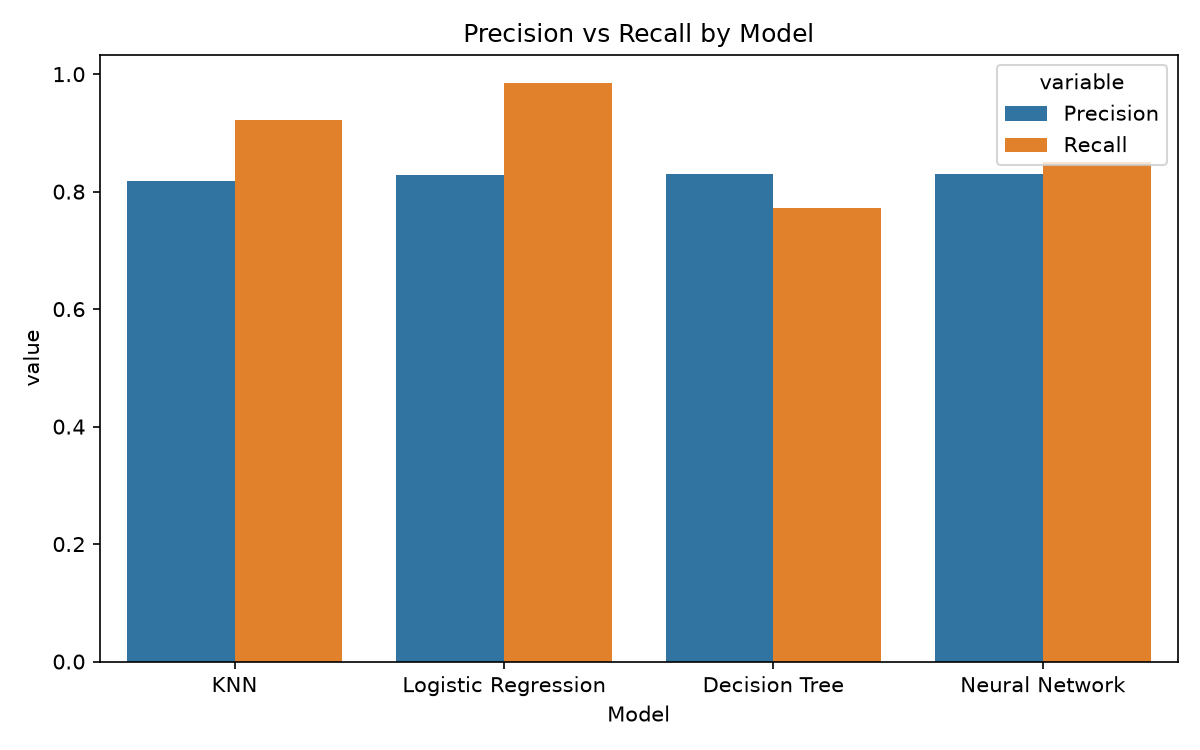
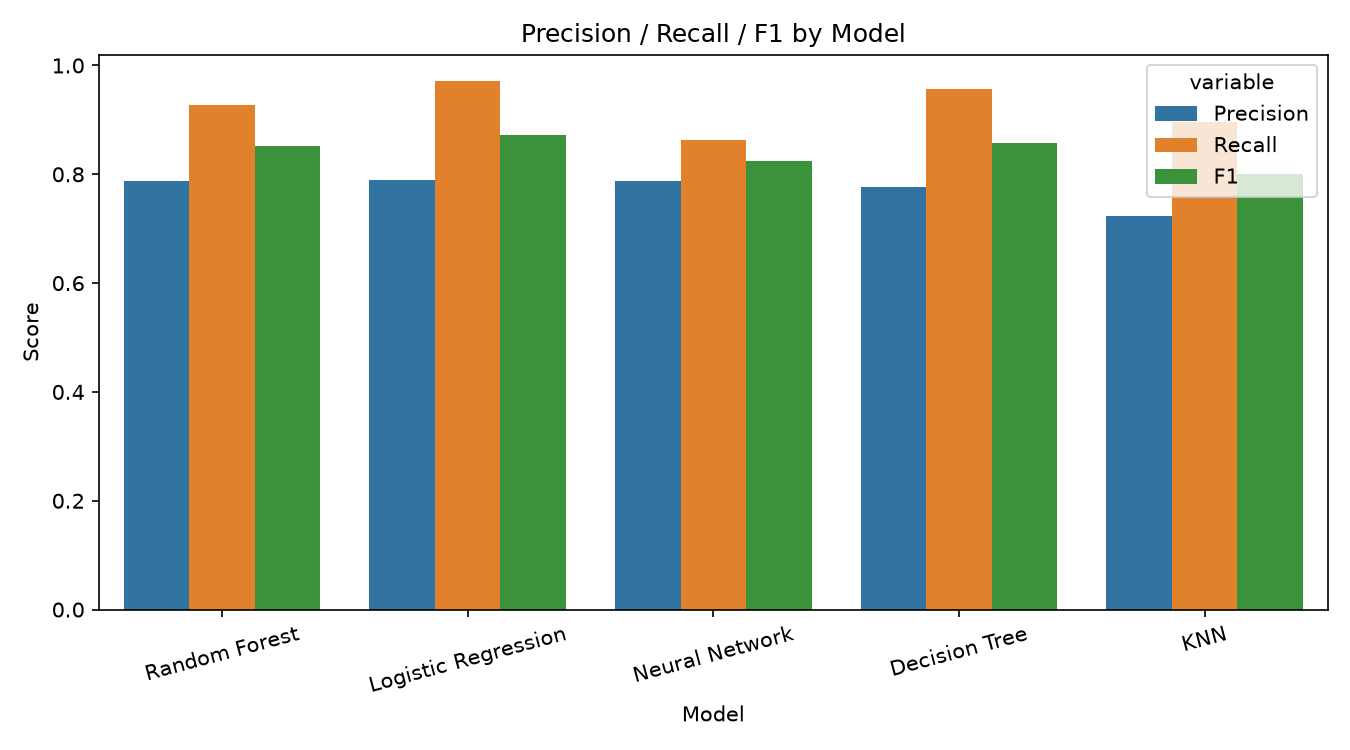
Improve model correctness and evaluation methodology
- Drop Loan_ID so the unique identifier is no longer used as a feature
- Replace the all-object LabelEncoder path (which silently rank-encoded
  numeric columns) with a ColumnTransformer: median-impute + scale numerics,
  most-frequent-impute + One-Hot encode categoricals
- Fit all preprocessing inside a Pipeline to avoid train/test leakage
- Evaluate with 5-fold Stratified Cross-Validation (out-of-fold predictions)
  instead of a single split, and add F1 + a majority-class baseline
- Add a Random Forest classifier (now five models, ranked by ROC AUC)
- Update README methodology/results and the architecture diagram to match

diff --git a/main.py b/main.py
@@ -1,16 +1,20 @@
 
 # importinggg
 import os
+import warnings
+
 import pandas as pd
 import numpy as np
 import seaborn as sns
 import matplotlib.pyplot as plt
 
-from sklearn.model_selection import train_test_split
-from sklearn.preprocessing import LabelEncoder, StandardScaler, MinMaxScaler
+from sklearn.model_selection import StratifiedKFold, cross_val_predict
+from sklearn.pipeline import Pipeline
+from sklearn.compose import ColumnTransformer
+from sklearn.preprocessing import StandardScaler, MinMaxScaler, OneHotEncoder
 from sklearn.impute import SimpleImputer
 from sklearn.metrics import (
-    accuracy_score, precision_score, recall_score,
+    accuracy_score, precision_score, recall_score, f1_score,
     confusion_matrix, roc_auc_score, roc_curve
 )
 
@@ -18,8 +22,9 @@ from sklearn.neighbors import KNeighborsClassifier
 from sklearn.linear_model import LogisticRegression
 from sklearn.tree import DecisionTreeClassifier
 from sklearn.neural_network import MLPClassifier
+from sklearn.ensemble import RandomForestClassifier
 
-
+warnings.filterwarnings("ignore")
 
 # Create a folder to save all generated figures
 FIGURES_DIR = "figures"
@@ -28,6 +33,11 @@ os.makedirs(FIGURES_DIR, exist_ok=True)
 
 # Step 1: Loading Dataset
 df = pd.read_csv("Loan Approval Dataset.csv")
+
+# Loan_ID is just a unique identifier (LP001002, ...), not a real feature,
+# so we drop it to keep it out of the models.
+df = df.drop(columns=["Loan_ID"])
+
 # plotting for checkk
 plt.figure(figsize=(6, 4))
 sns.countplot(x="loan_status", data=df, order=["N", "Y"])
@@ -40,127 +50,139 @@ plt.savefig(os.path.join(FIGURES_DIR, "01_class_distribution.png"), dpi=150)
 plt.show()
 
 
-# Step 2: Handling Missing Values
-if df.isnull().values.any():
-    imputer = SimpleImputer(strategy="most_frequent")
-    df_imputed = pd.DataFrame(imputer.fit_transform(df), columns=df.columns)
-else:
-    df_imputed=df
+# Step 2: Features / Target
+# Target: 1 = Approved (Y), 0 = Rejected (N)
+y = (df["loan_status"] == "Y").astype(int)
+X = df.drop(columns=["loan_status"])
+
+# Split columns by type so each gets the right preprocessing
+numeric_features = X.select_dtypes(include=["number"]).columns.tolist()
+categorical_features = X.select_dtypes(exclude=["number"]).columns.tolist()
 
 
-# Step 3: Categorical Variables Encoding
-label_encoders = {}
-for column in df_imputed.select_dtypes(include=['object']).columns:
-    le = LabelEncoder()
-    df_imputed[column] = le.fit_transform(df_imputed[column])
-    label_encoders[column] = le
-
-
-
-# Step 4: Plotting Correlation Heatmap
+# Step 3: Correlation Heatmap
+# For the heatmap we need everything numeric, so we encode categoricals just
+# for visualisation (this encoded frame is NOT used for training).
+df_encoded = df.copy()
+for col in categorical_features + ["loan_status"]:
+    df_encoded[col] = df_encoded[col].astype("category").cat.codes
 plt.figure(figsize=(12, 8))
-sns.heatmap(df_imputed.corr(), annot=True, cmap='coolwarm')
-plt.title('Feature Correlation Heatmap')
+sns.heatmap(df_encoded.corr(), annot=True, cmap="coolwarm")
+plt.title("Feature Correlation Heatmap")
 plt.tight_layout()
 plt.savefig(os.path.join(FIGURES_DIR, "02_correlation_heatmap.png"), dpi=150)
 plt.show()
 
 
+# Step 4: Preprocessing definition
+# - Numeric  : impute missing with the MEDIAN, then scale.
+# - Category : impute missing with the MOST FREQUENT value, then One-Hot encode.
+# One-Hot avoids the false "ordering" that LabelEncoder imposes on categories.
+def build_preprocessor(numeric_scaler):
+    return ColumnTransformer([
+        ("num", Pipeline([
+            ("impute", SimpleImputer(strategy="median")),
+            ("scale", numeric_scaler),
+        ]), numeric_features),
+        ("cat", Pipeline([
+            ("impute", SimpleImputer(strategy="most_frequent")),
+            ("onehot", OneHotEncoder(handle_unknown="ignore")),
+        ]), categorical_features),
+    ])
 
-# Step 5: Splitting Train-Test Split by 70/30 ratio
-X = df_imputed.drop("loan_status", axis=1)
-y = df_imputed["loan_status"]
-X_train_raw, X_test_raw, y_train, y_test = train_test_split(
-    X, y, test_size=0.3, stratify=y, random_state=42
-)
 
-
-
-# Step 6: Define Models
-
+# Step 5: Define Models
 models = {
     "KNN": KNeighborsClassifier(),
-    "Logistic Regression": LogisticRegression(),
-    "Decision Tree": DecisionTreeClassifier(),
-    "Neural Network": MLPClassifier(max_iter=1000)
+    "Logistic Regression": LogisticRegression(max_iter=1000),
+    "Decision Tree": DecisionTreeClassifier(max_depth=5, random_state=42),
+    "Neural Network": MLPClassifier(max_iter=1000, random_state=42),
+    "Random Forest": RandomForestClassifier(n_estimators=300, random_state=42),
 }
 
 
-
-# Step 7: Apply Scaling and Train Models
-
+# Step 6: Train & Evaluate with 5-fold Cross-Validation
+# Instead of one lucky train/test split, we use out-of-fold predictions so that
+# every row is predicted by a model that never saw it during training. This
+# gives far more stable, honest estimates on a small (614-row) dataset.
+cv = StratifiedKFold(n_splits=5, shuffle=True, random_state=42)
 results = {}
 
 for name, model in models.items():
-    if name == "KNN":
-        scaler = MinMaxScaler()
-    else:
-        scaler = StandardScaler()
+    # KNN is distance-based -> MinMax; the rest -> StandardScaler.
+    scaler = MinMaxScaler() if name == "KNN" else StandardScaler()
+    pipe = Pipeline([
+        ("preprocess", build_preprocessor(scaler)),
+        ("model", model),
+    ])
 
-    X_train = scaler.fit_transform(X_train_raw)
-    X_test = scaler.transform(X_test_raw)
+    # Out-of-fold probabilities, then threshold at 0.5 for the class prediction.
+    y_prob = cross_val_predict(pipe, X, y, cv=cv, method="predict_proba")[:, 1]
+    y_pred = (y_prob >= 0.5).astype(int)
 
-
-    model.fit(X_train, y_train)
-    y_pred = model.predict(X_test)
-
-
-    if hasattr(model, "predict_proba"):
-          y_prob = model.predict_proba(X_test)[:, 1]
-    else:
-         y_prob= y_pred
-
+    fpr, tpr, _ = roc_curve(y, y_prob)
     results[name] = {
-        "model": model,
-        "accuracy": accuracy_score(y_test, y_pred),
-        "precision": precision_score(y_test, y_pred),
-        "recall": recall_score(y_test, y_pred),
-        "confusion_matrix": confusion_matrix(y_test, y_pred),
-        "roc_auc": roc_auc_score(y_test, y_prob),
-        "fpr": roc_curve(y_test, y_prob)[0],
-        "tpr": roc_curve(y_test, y_prob)[1]
+        "accuracy": accuracy_score(y, y_pred),
+        "precision": precision_score(y, y_pred),
+        "recall": recall_score(y, y_pred),
+        "f1": f1_score(y, y_pred),
+        "roc_auc": roc_auc_score(y, y_prob),
+        "confusion_matrix": confusion_matrix(y, y_pred),
+        "fpr": fpr,
+        "tpr": tpr,
     }
 
 
-# Step 8: Summary Table
+# Step 7: Summary Table
 summary_df = pd.DataFrame([
     {
         "Model": name,
         "Accuracy": res["accuracy"],
         "Precision": res["precision"],
         "Recall": res["recall"],
-        "ROC AUC": res["roc_auc"]
+        "F1": res["f1"],
+        "ROC AUC": res["roc_auc"],
     }
     for name, res in results.items()
-])
-print("\n                                   Model Evaluation Summary")
-print(summary_df)
+]).sort_values("ROC AUC", ascending=False).reset_index(drop=True)
+
+baseline = max(y.mean(), 1 - y.mean())
+print("\n                          Model Evaluation Summary (5-fold CV)")
+print(summary_df.to_string(index=False))
+print(f"\nBaseline accuracy (always predict the majority class): {baseline:.3f}")
 
 
-
-# Step 9: Accuracy Bar-Chart Representation
+# Step 8: Accuracy Bar-Chart Representation
 plt.figure(figsize=(8, 5))
 sns.barplot(x="Model", y="Accuracy", data=summary_df)
 plt.title("Model Accuracy Comparison")
+plt.axhline(baseline, color="red", linestyle="--", label=f"Baseline ({baseline:.2f})")
+plt.legend()
+plt.xticks(rotation=15)
 plt.tight_layout()
 plt.savefig(os.path.join(FIGURES_DIR, "03_model_accuracy.png"), dpi=150)
 plt.show()
 
 
-
-# Step 10: Precision & Recall Bar-Chart Representation
-summary_melted = pd.melt(summary_df, id_vars="Model", value_vars=["Precision", "Recall"])
-plt.figure(figsize=(8, 5))
+# Step 9: Precision / Recall / F1 Bar-Chart Representation
+summary_melted = pd.melt(summary_df, id_vars="Model",
+                         value_vars=["Precision", "Recall", "F1"])
+plt.figure(figsize=(9, 5))
 sns.barplot(x="Model", y="value", hue="variable", data=summary_melted)
-plt.title("Precision vs Recall by Model")
+plt.title("Precision / Recall / F1 by Model")
+plt.ylabel("Score")
+plt.xticks(rotation=15)
 plt.tight_layout()
 plt.savefig(os.path.join(FIGURES_DIR, "04_precision_recall.png"), dpi=150)
 plt.show()
 
-# Step 11: Confusion Matrices Diagram
+
+# Step 10: Confusion Matrices Diagram
 for name, res in results.items():
     plt.figure(figsize=(5, 4))
-    sns.heatmap(res["confusion_matrix"], annot=True, fmt="d", cmap="Blues")
+    sns.heatmap(res["confusion_matrix"], annot=True, fmt="d", cmap="Blues",
+                xticklabels=["Rejected", "Approved"],
+                yticklabels=["Rejected", "Approved"])
     plt.title(f"Confusion Matrix - {name}")
     plt.xlabel("Predicted")
     plt.ylabel("Actual")
@@ -170,12 +192,11 @@ for name, res in results.items():
     plt.show()
 
 
-
-# Step 12: ROC Curve Comparison Graph
+# Step 11: ROC Curve Comparison Graph
 plt.figure(figsize=(10, 8))
 for name, res in results.items():
     plt.plot(res["fpr"], res["tpr"], label=f"{name} (AUC = {res['roc_auc']:.2f})")
-plt.plot([0, 1], [0, 1], 'k--')
+plt.plot([0, 1], [0, 1], "k--")
 plt.title("ROC Curve Comparison")
 plt.xlabel("False Positive Rate")
 plt.ylabel("True Positive Rate")

diff --git a/README.md b/README.md
@@ -29,15 +29,17 @@ This project is a Machine Learning pipeline designed to automate the loan eligib
 The system implements multiple classification algorithms to determine the most accurate model, performing comprehensive data preprocessing, feature scaling, and visualization of performance metrics.
 
 ## 📊 Features
-* **Automated Preprocessing:** Handles missing values and encodes categorical variables.
+* **Leak-Free Preprocessing:** A scikit-learn `Pipeline` + `ColumnTransformer` imputes missing values (median for numeric, most-frequent for categorical) and **One-Hot encodes** categories — all fitted inside cross-validation so no information leaks from test to train.
 * **Exploratory Data Analysis (EDA):** Visualizes class distribution and feature correlations.
-* **Multi-Model Comparison:** Trains and evaluates four distinct algorithms:
+* **Multi-Model Comparison:** Trains and evaluates five distinct algorithms:
     * K-Nearest Neighbors (KNN)
     * Logistic Regression
     * Decision Tree Classifier
     * Neural Network (MLPClassifier)
+    * Random Forest Classifier
 * **Adaptive Scaling:** Applies `MinMaxScaler` for distance-based algorithms (KNN) and `StandardScaler` for others.
-* **Performance Visualization:** Generates Confusion Matrices, ROC Curves, and Accuracy comparisons.
+* **Honest Evaluation:** Uses **5-fold Stratified Cross-Validation** (out-of-fold predictions) instead of a single split, and reports Accuracy, Precision, Recall, **F1** and **ROC AUC** against a majority-class baseline.
+* **Performance Visualization:** Generates Confusion Matrices, ROC Curves, and metric comparison charts.
 
 ## 🛠 Tech Stack
 * **Language:** Python
@@ -88,20 +90,23 @@ The project relies on `Loan Approval Dataset.csv`.
 ## 🧠 Methodology
 
 ### 1. Data Preprocessing
-* **Missing Values:** Imputed using the `most_frequent` strategy.
-* **Encoding:** `LabelEncoder` is used to convert categorical text data into numerical format.
-* **Splitting:** Data is split 70% for training and 30% for testing using **stratified sampling** to maintain class balance.
+* **ID Removal:** `Loan_ID` is dropped — it is a unique identifier, not a predictive feature.
+* **Missing Values:** Numeric columns are imputed with the **median**; categorical columns with the **most-frequent** value.
+* **Encoding:** Categorical text is converted with **One-Hot Encoding** (avoids the false ordinal ordering that `LabelEncoder` would impose on unordered categories).
+* **Leakage Control:** All of the above live inside a `Pipeline` that is fitted *within* each cross-validation fold, so the test fold never influences preprocessing.
 
 ### 2. Model Training
-The system compares four models. Logic is applied to use specific scalers for specific models:
+The system compares five models, with model-specific scaling:
 * **KNN:** Uses `MinMaxScaler` (sensitive to data magnitude).
-* **Logistic Regression, Decision Tree, Neural Network:** Use `StandardScaler`.
+* **Logistic Regression, Decision Tree, Neural Network, Random Forest:** Use `StandardScaler`.
+
+Evaluation uses **5-fold Stratified Cross-Validation** with out-of-fold predictions, so every row is scored by a model that never trained on it — much more reliable than a single train/test split on a small (614-row) dataset.
 
 ### 3. Evaluation Metrics
-The models are ranked based on:
-* **Accuracy:** Overall correctness.
-* **Precision & Recall:** To understand False Positives vs False Negatives.
-* **ROC AUC Score:** To measure the model's ability to distinguish between classes.
+Because the classes are imbalanced (~69% Approved), the models are judged on more than accuracy:
+* **Accuracy:** Overall correctness — compared against a majority-class **baseline (~0.69)**.
+* **Precision, Recall & F1:** To balance False Positives vs False Negatives (crucial when approving risky loans is costly).
+* **ROC AUC Score:** The primary ranking metric — measures the model's ability to distinguish Approved from Rejected regardless of threshold.
 
 ## 📈 Results & Visualizations
 
@@ -111,9 +116,9 @@ Running the script automatically creates a **`figures/`** folder and saves every
 | --- | --- |
 | `01_class_distribution.png` | **Class Distribution** — checks for dataset imbalance. |
 | `02_correlation_heatmap.png` | **Correlation Heatmap** — identifies relationships between features. |
-| `03_model_accuracy.png` | **Model Accuracy Comparison** — accuracy of all four models side-by-side. |
-| `04_precision_recall.png` | **Precision vs Recall** — precision and recall for each model. |
-| `05_confusion_matrix_<model>.png` | **Confusion Matrices** — one per model (KNN, Logistic Regression, Decision Tree, Neural Network). |
+| `03_model_accuracy.png` | **Model Accuracy Comparison** — accuracy of all five models vs the majority-class baseline. |
+| `04_precision_recall.png` | **Precision / Recall / F1** — the three metrics for each model. |
+| `05_confusion_matrix_<model>.png` | **Confusion Matrices** — one per model (KNN, Logistic Regression, Decision Tree, Neural Network, Random Forest). |
 | `06_roc_curve.png` | **ROC Curve Comparison** — True Positive Rate vs False Positive Rate for all models. |
 
 > The `figures/` folder is created automatically on each run, so you don't need to make it manually.
